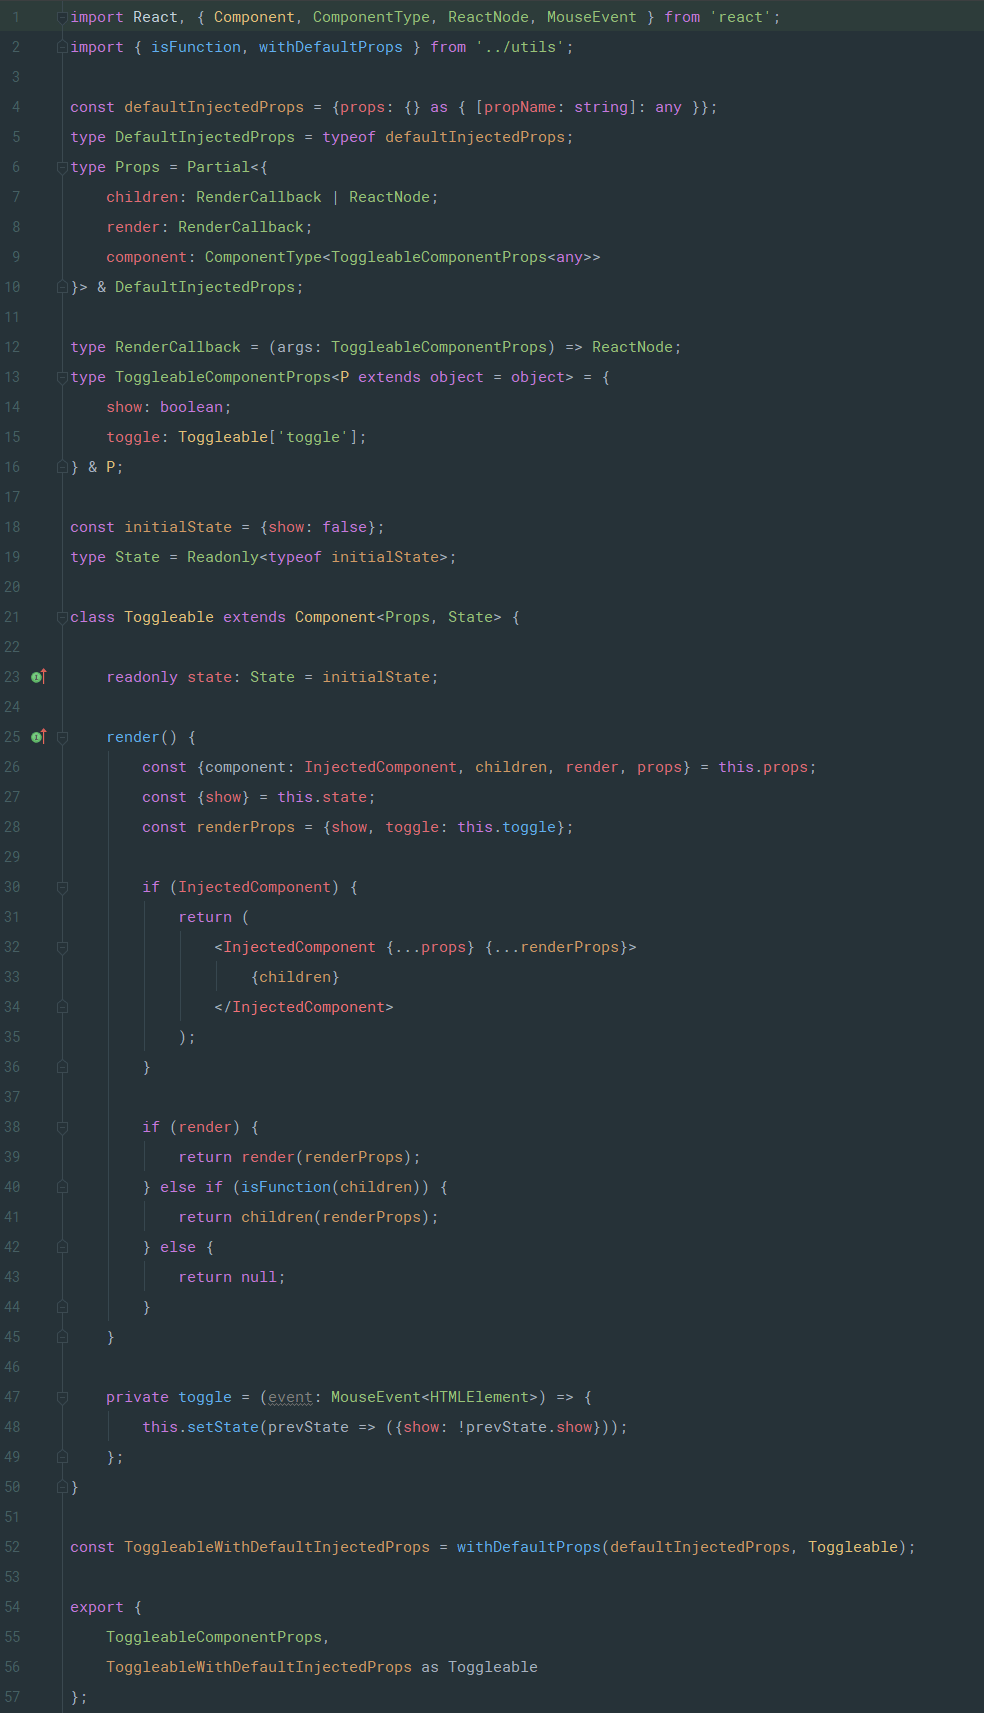
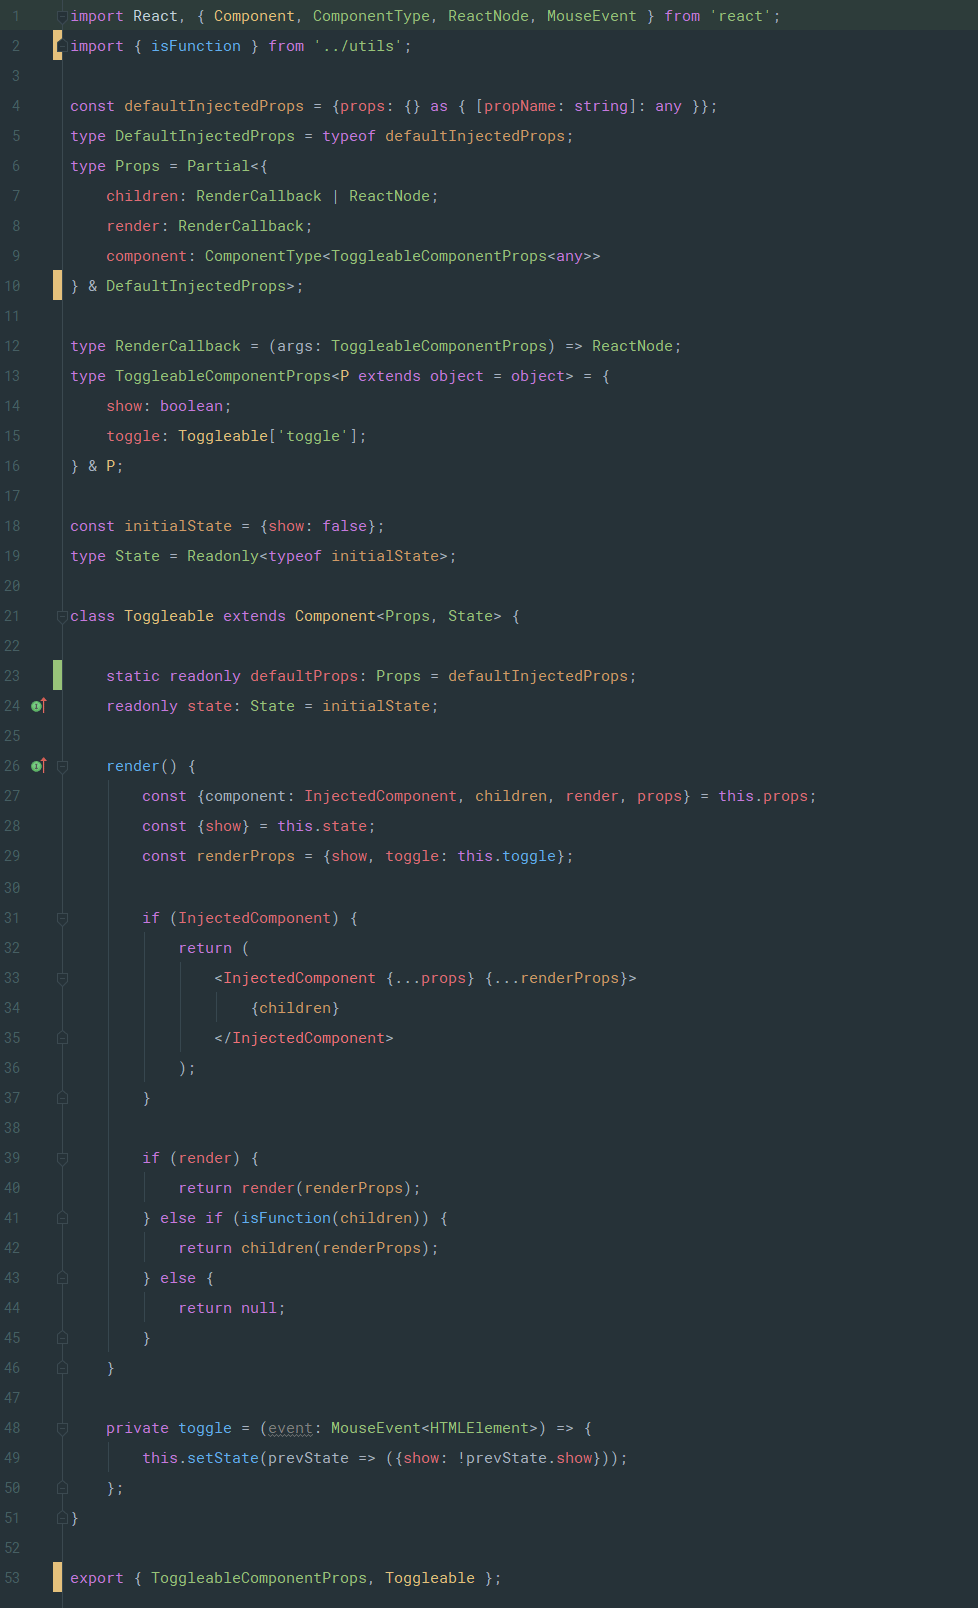
feat:generic.

diff --git a/src/generic/Toggleable.tsx b/src/generic/Toggleable.tsx
@@ -1,13 +1,14 @@
 import React, { Component, ComponentType, ReactNode, MouseEvent } from 'react';
 import { isFunction } from '../utils';
 
-const defaultInjectedProps = {props: {} as { [propName: string]: any }};
-type DefaultInjectedProps = typeof defaultInjectedProps;
-type Props = Partial<{
+type DefaultInjectedProps<P extends object = object> = { props: P };
+const defaultInjectedProps: DefaultInjectedProps = {props: {}};
+
+type Props<P extends object = object> = Partial<{
     children: RenderCallback | ReactNode;
     render: RenderCallback;
-    component: ComponentType<ToggleableComponentProps<any>>
-} & DefaultInjectedProps>;
+    component: ComponentType<ToggleableComponentProps<P>>
+} & DefaultInjectedProps<P>>;
 
 type RenderCallback = (args: ToggleableComponentProps) => ReactNode;
 type ToggleableComponentProps<P extends object = object> = {
@@ -18,8 +19,11 @@ type ToggleableComponentProps<P extends object = object> = {
 const initialState = {show: false};
 type State = Readonly<typeof initialState>;
 
-class Toggleable extends Component<Props, State> {
+class Toggleable<T extends object = object> extends Component<Props<T>, State> {
 
+    static ofType<T extends object>() {
+        return Toggleable as Constructor<Toggleable<T>>;
+    }
     static readonly defaultProps: Props = defaultInjectedProps;
     readonly state: State = initialState;
 

diff --git a/src/generic/Collapse.tsx b/src/generic/Collapse.tsx
@@ -1,0 +1,19 @@
+import React, { Component } from 'react';
+import PanelViaInjection from './PanelViaInjection';
+
+class Collapse extends Component {
+
+    render() {
+        return (
+            <div>
+                <PanelViaInjection title="标题一"><p>内容1</p></PanelViaInjection>
+                <PanelViaInjection title="标题二"><p>内容2</p></PanelViaInjection>
+                <PanelViaInjection title="标题三"><p>内容3</p></PanelViaInjection>
+                <PanelViaInjection title="标题四"><p>内容4</p></PanelViaInjection>
+                <PanelViaInjection title="标题五"><p>内容5</p></PanelViaInjection>
+            </div>
+        );
+    }
+}
+
+export default Collapse;

diff --git a/src/generic/PanelItem.tsx b/src/generic/PanelItem.tsx
@@ -1,0 +1,17 @@
+import React, { SFC } from 'react';
+import { ToggleableComponentProps } from './Toggleable';
+
+type PanelItemProps = { title: string };
+
+const PanelItem: SFC<PanelItemProps & ToggleableComponentProps> = props => {
+    const {title, children, show, toggle} = props;
+
+    return (
+        <div onClick={toggle}>
+            <h1>{title}</h1>
+            {show ? children : null}
+        </div>
+    );
+};
+
+export { PanelItemProps, PanelItem };

diff --git a/src/generic/PanelViaInjection.tsx b/src/generic/PanelViaInjection.tsx
@@ -1,0 +1,13 @@
+import React, { SFC } from 'react';
+import { Toggleable } from './Toggleable';
+import { PanelItemProps, PanelItem } from './PanelItem';
+
+const ToggleableOfPanelItem = Toggleable.ofType<PanelItemProps>();
+
+const PanelViaInjection: SFC<PanelItemProps> = ({title, children}) => (
+    <ToggleableOfPanelItem component={PanelItem} props={{title}}>
+        {children}
+    </ToggleableOfPanelItem>
+);
+
+export default PanelViaInjection;

diff --git a/src/types/global.d.ts b/src/types/global.d.ts
@@ -1,3 +1,5 @@
 declare type DiffPropertyNames<T extends string, U extends string> = { [P in T]: P extends U ? never: P }[T];
 
 declare type Omit<T, K extends keyof T> = Pick<T, DiffPropertyNames<keyof T, K>>;
+
+declare type Constructor<T = {}> = { new(...args: any[]): T };

diff --git a/README.md b/README.md
@@ -16,6 +16,8 @@
 
 
 
+
+
 ## 无状态组件
 
 无状态组件就是没有 `state` 的，通常我们也叫做纯函数组件。用原生 JS 我们可以这样写一个按钮组件：
@@ -62,6 +64,8 @@ type SFC<P = {}> = StatelessComponent<P>;
 最后我们的代码是这样的：
 
 ![](images/stateless.png)
+
+
 
 
 
@@ -112,6 +116,8 @@ this.state = {count: 1};
 
 
 
+
+
 ## 属性默认值
 
 让我们来扩展一下纯函数按钮组件，加上一个颜色属性：
@@ -159,7 +165,7 @@ const Button: SFC<Props> = ({onClick: handleClick, color, children}) => (
 
 ![](images/with-default-props.png)
 
-这里涉及到两个 `type` 定义：
+这里涉及到两个 type 定义，写在 `src/types/global.d.ts` 文件里面：
 
 ```typescript
 declare type DiffPropertyNames<T extends string, U extends string> = { [P in T]: P extends U ? never: P }[T];
@@ -178,6 +184,8 @@ declare type Omit<T, K extends keyof T> = Pick<T, DiffPropertyNames<keyof T, K>>
 现在使用这个组件时默认值属性已经发生作用，是可选的；并且在组件内部使用这些默认值属性不用再手动断言了，这些默认值属性就是必填属性！感觉还不错对吧 ：）
 
 > `withDefautProps` 函数同样可以应用在 `stateful` 有状态的类组件上。
+
+
 
 
 
@@ -291,6 +299,8 @@ class Toggleable extends Component<Props, State> {
 
 
 
+
+
 ## 组件注入模式
 
 为了使组件逻辑更具伸缩性，下面我们来说说组件注入模式。
@@ -339,7 +349,7 @@ type Props = Partial<{
     children: RenderCallback | ReactNode;
     render: RenderCallback;
     component: ComponentType<ToggleableComponentProps<any>>
-}> & DefaultInjectedProps;
+} & DefaultInjectedProps>;
 ```
 
 
@@ -428,6 +438,96 @@ class Collapse extends Component {
 
 
 
+
+
 ## 泛型组件
 
-在组件注入模式的例子中，`props` 属性丢失了类型安全检查，我们如何去修复这个问题呢？
+在组件注入模式的例子中，`props` 属性丢失了类型安全检查，我们如何去修复这个问题呢？估计你已经猜出来了，我们可以把 Toggleable 组件重构为泛型组件！
+
+
+
+下来我们开始重构 Toggleable 组件。首先我们需要让 `props` 支持泛型：
+
+```typescript
+type DefaultInjectedProps<P extends object = object> = { props: P };
+const defaultInjectedProps: DefaultInjectedProps = {props: {}};
+                          
+type Props<P extends object = object> = Partial<{
+    children: RenderCallback | ReactNode;
+    render: RenderCallback;
+    component: ComponentType<ToggleableComponentProps<P>>
+} & DefaultInjectedProps<P>>;
+```
+
+
+
+然后让 Toggleable 的 class 也支持泛型：
+
+```typescript
+class Toggleable<T extends object = object> extends Component<Props<T>, State> {}
+```
+
+看起来好像已经搞定了！
+
+等一下，有个问题... 我们怎么在 JSX 里面使用这个泛型？？不幸的是这样确实不行，我们还有一步工作要做，加入一个静态方法 `ofType` ，用来进行构造函数的类型转换：
+
+```typescript
+static ofType<T extends object>() {
+    return Toggleable as Constructor<Toggleable<T>>;
+}
+```
+
+这里用到一个 type：`Constructor`，依然定义在 `src/types/global.d.ts` 里面：
+
+```typescript
+declare type Constructor<T = {}> = { new(...args: any[]): T };
+```
+
+
+
+好了，我们完成了所有的工作，下面是 Toggleable 重构后的完整代码：
+
+
+
+现在我们来看看怎么使用这个泛型组件，重构下原来的 PanelViaInjection 组件：
+
+```typescript
+import React, { SFC } from 'react';
+import { Toggleable } from './Toggleable';
+import { PanelItemProps, PanelItem } from './PanelItem';
+
+const ToggleableOfPanelItem = Toggleable.ofType<PanelItemProps>();
+
+const PanelViaInjection: SFC<PanelItemProps> = ({title, children}) => (
+    <ToggleableOfPanelItem component={PanelItem} props={{title}}>
+        {children}
+    </ToggleableOfPanelItem>
+);
+```
+
+所有的功能都能像原来的代码一样工作，并且现在 `props` 属性也支持 TS 类型检查了，很棒有木有！：）
+
+![](images/generic-toggleable-demo.gif)
+
+
+
+
+
+## 高阶组件
+
+前面我们已经实现了 Toggleable 的渲染回调模式，那么很自然的我们可以衍生出一个 HOC 组件。
+
+> 如果对 HOC 不熟的话，可以先看下 React 官方文档对于 [HOC](https://reactjs.org/docs/higher-order-components.html) 的说明。
+
+
+
+先来看看定义 HOC 我们需要做哪些工作：
+
+- `displayName` （方便在 devtools 里面进行调试）
+- `WrappedComponent ` （可以访问原始的组件 -- 有利于调试）
+- 引入 [hoist-non-react-statics](https://github.com/mridgway/hoist-non-react-statics) 包，将原始组件的静态方法全部导出
+
+
+
+下面直接上代码 -- `withToggleable` 高阶组件：
+
